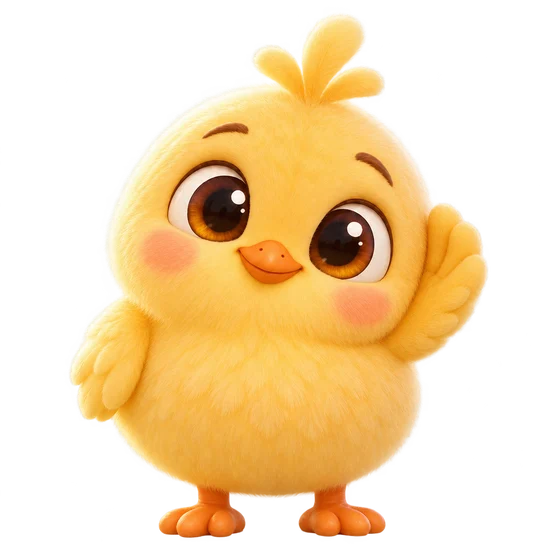
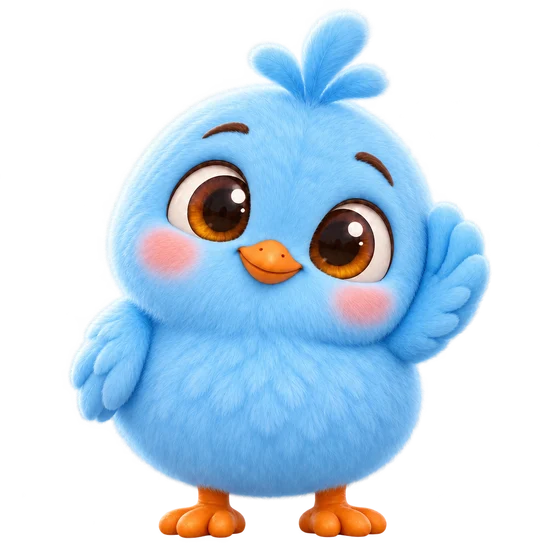
Pío ahora es azul

diff --git a/web/app/globals.css b/web/app/globals.css
@@ -9,6 +9,7 @@
   --mint-hi: #d6f6bd;
   --mint-ink: #14352a;
   --chick: #ffd978;
+  --sky: #7cc8ff;
   --coral: #ff9f8e;
   --coral-ink: #47201a;
   --amber: #f2c38e;
@@ -888,7 +889,7 @@ footer {
 }
 .welcome h1 em {
   font-style: normal;
-  color: var(--chick);
+  color: var(--sky);
 }
 .intro {
   color: var(--muted);
